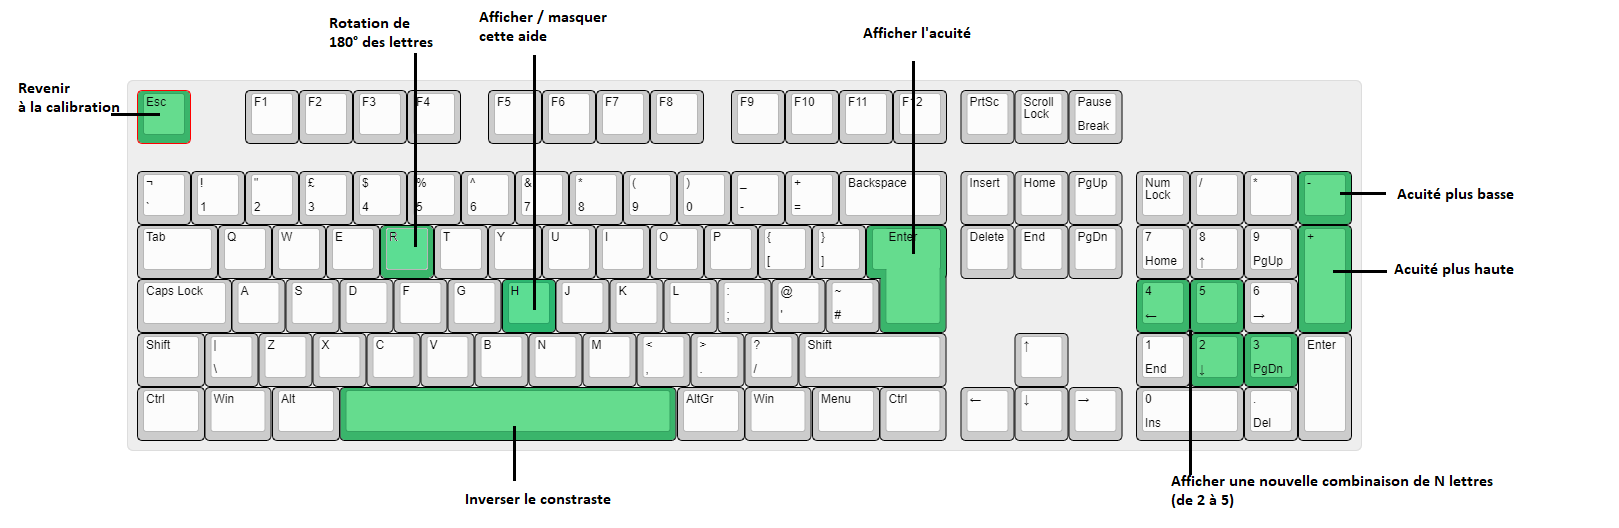
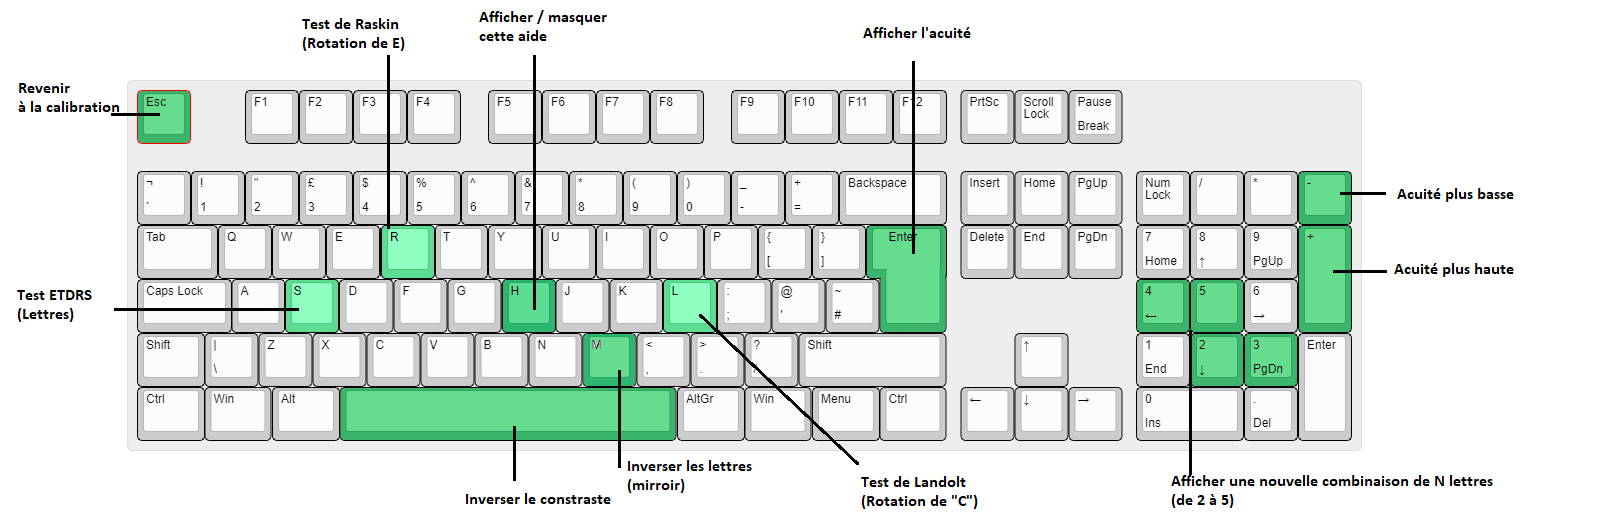
New Font + Raskin et Landolt

diff --git a/TestAcuite/Views/Acuite.xaml b/TestAcuite/Views/Acuite.xaml
@@ -20,8 +20,8 @@
                     TextColor ="{Binding TextColor, Mode=TwoWay}"
                     IsVisible="{Binding IsHelpVisible, Mode=TwoWay, Converter={StaticResource InvertedBoolConverter}}"
                     Text="{Binding TextToShow, Mode=TwoWay}"
-                    FontFamily="Sloan"
-                    Rotation="{Binding AngleRotation, Mode=TwoWay}"
+                    FontFamily="{Binding FontToUse, Mode=TwoWay}"
+                    ScaleX="{Binding ScaleXValue, Mode=TwoWay}"
                     CharacterSpacing="16"
                     FontSize="{Binding FontSize, Mode=TwoWay}" VerticalOptions="Start" FontAutoScalingEnabled="True" />
 

diff --git a/TestAcuite/Views/Calibration.xaml b/TestAcuite/Views/Calibration.xaml
@@ -129,9 +129,9 @@
                         Grid.Column="2"
                         Grid.Row ="2"
                         LineHeight="-1"
-                        Text="Z"
+                        Text="M"
                         TextColor="White"
-                        FontFamily="Sloan"
+                        FontFamily="Letters"
                         FontSize="{Binding FontSize, Mode=OneWay}"/>
                 </VerticalStackLayout>
 

diff --git a/TestAcuite/ViewModels/AcuiteViewModel.cs b/TestAcuite/ViewModels/AcuiteViewModel.cs
@@ -3,6 +3,7 @@ using System.Runtime.CompilerServices;
 using TestAcuite.Class;
 using TestAcuite.Helpers;
 using SharpHook;
+using Microsoft.Maui.ApplicationModel;
 
 namespace TestAcuite.ViewModels
 {
@@ -14,10 +15,14 @@ namespace TestAcuite.ViewModels
         private Color _textColor;
         private Color _backgroundColor;
         private decimal _currentLogMar;
-        private List<String> _lstText = new List<String>() { "NCKZO", "RHSDK", "DOVHR", "ONHRC", "DKSNV", "ZSOKN", "CKDNR", "SRZKD", "HZOVC", "NVDOK", "VHCNO", "SVHCZ", "OZDVK" };
+        private List<String> _lstToShow = new List<String>();
+        private List<String> _lstSloan = new List<String>() { "NCKZO", "RHSDK", "DOVHR", "ONHRC", "DKSNV", "ZSOKN", "CKDNR", "SRZKD", "HZOVC", "NVDOK", "VHCNO", "SVHCZ", "OZDVK" };
+        private List<String> _lstRaskin = new List<String>() { "ADBCD", "CBADC", "DCBAB", "BADCA" };
+        private List<String> _lstLandolt = new List<String>() { "EKGHI", "LFEKJ", "KEHFI", "FKHIG", "EJFLH","HKIHL","IJFEG","FIHEK" };
         public SharpHook.SimpleGlobalHook hook = new SimpleGlobalHook();
         private int _nbLetters;
-        private int _angleRotation;
+        private int _scaleX;
+        private string _fontToUse;
         CancellationTokenSource cancellationTokenSource = new CancellationTokenSource();
         ConvertUnit[] _convert = new ConvertUnit[]
         {
@@ -57,9 +62,12 @@ namespace TestAcuite.ViewModels
             _textColor = Color.Parse("White");
             _backgroundColor = Color.Parse("Black");
             _isAcuiteVisible = true;
-            _angleRotation = 0;
+            _scaleX = 1;
             _nbLetters = 3;
+            _fontToUse = "Sloan";
+            _lstToShow = _lstSloan;
             hook.KeyPressed += OnKeyPressed;
+            ShowCombinaison();
             Listen();
         }
 
@@ -68,8 +76,6 @@ namespace TestAcuite.ViewModels
             _params = ConfigHelper.GetCalibration();
             _currentLogMar = _params.Accuity;
             FontSize = _params.FontSize;
-            int index = new Random().Next(_lstText.Count);
-            TextToShow = _lstText[index].Substring(0, 3);
             if (!hook.IsRunning)
             {
                 hook.RunAsync();
@@ -115,8 +121,23 @@ namespace TestAcuite.ViewModels
                 case SharpHook.Native.KeyCode.VcH:
                     IsHelpVisible = !IsHelpVisible;
                     break;
+                case SharpHook.Native.KeyCode.VcM:
+                    ScaleXValue = ScaleXValue *= -1;
+                    break;
+                case SharpHook.Native.KeyCode.VcS:
+                    FontToUse = "Sloan";
+                    _lstToShow = _lstSloan;
+                    ShowCombinaison();
+                    break;
                 case SharpHook.Native.KeyCode.VcR:
-                    AngleRotation = (AngleRotation == 0 ? 180 : 0);
+                    FontToUse = "RaskinLandol";
+                    _lstToShow = _lstRaskin;
+                    ShowCombinaison();
+                    break;
+                case SharpHook.Native.KeyCode.VcL:
+                    FontToUse = "RaskinLandol";
+                    _lstToShow = _lstLandolt;
+                    ShowCombinaison();
                     break;
                 case SharpHook.Native.KeyCode.VcNumPadAdd:
                     DecreaseTextSize();
@@ -135,8 +156,8 @@ namespace TestAcuite.ViewModels
         private void ShowCombinaison()
         {
             var random = new Random();
-            int index = random.Next(_lstText.Count);
-            TextToShow = _lstText[index].Substring(0, _nbLetters);
+            int index = random.Next(_lstToShow.Count);
+            TextToShow = _lstToShow[index].Substring(random.Next(0, _lstToShow[index].Count() - _nbLetters), _nbLetters);
         }
         private void IncreaseTextSize()
         {
@@ -174,6 +195,13 @@ namespace TestAcuite.ViewModels
             get { return _textToShow; }
             set { _textToShow = value; OnPropertyChanged("TextToShow"); }
         }
+
+        public String FontToUse
+        {
+            get { return _fontToUse; }
+            set { _fontToUse = value; OnPropertyChanged("FontToUse"); }
+        }
+
         public double FontSize
         {
             get { return _fontSize; }
@@ -203,10 +231,10 @@ namespace TestAcuite.ViewModels
             set { _isAcuiteVisible = value; OnPropertyChanged("IsAcuiteVisible"); }
         }
 
-        public int AngleRotation
+        public int ScaleXValue
         {
-            get { return _angleRotation; }
-            set { _angleRotation = value; OnPropertyChanged("AngleRotation"); }
+            get { return _scaleX; }
+            set { _scaleX = value; OnPropertyChanged("ScaleXValue"); }
         }
 
         public Boolean IsHelpVisible

diff --git a/TestAcuite/TestAcuite.cs b/TestAcuite/TestAcuite.cs
@@ -11,8 +11,8 @@ public static class TestAcuite
         {
             fonts.AddFont("OpenSans-Regular.ttf", "OpenSansRegular");
             fonts.AddFont("OpenSans-Semibold.ttf", "OpenSansSemibold");
-            fonts.AddFont("Optician-Sans.otf", "OpticianSans");
             fonts.AddFont("Sloan.otf", "Sloan");
+            fonts.AddFont("Antjac_Raskin_Landolt.otf", "RaskinLandol");
         }).UseMauiCommunityToolkit();
 
         builder.Services.AddSingleton<Acuite>();
